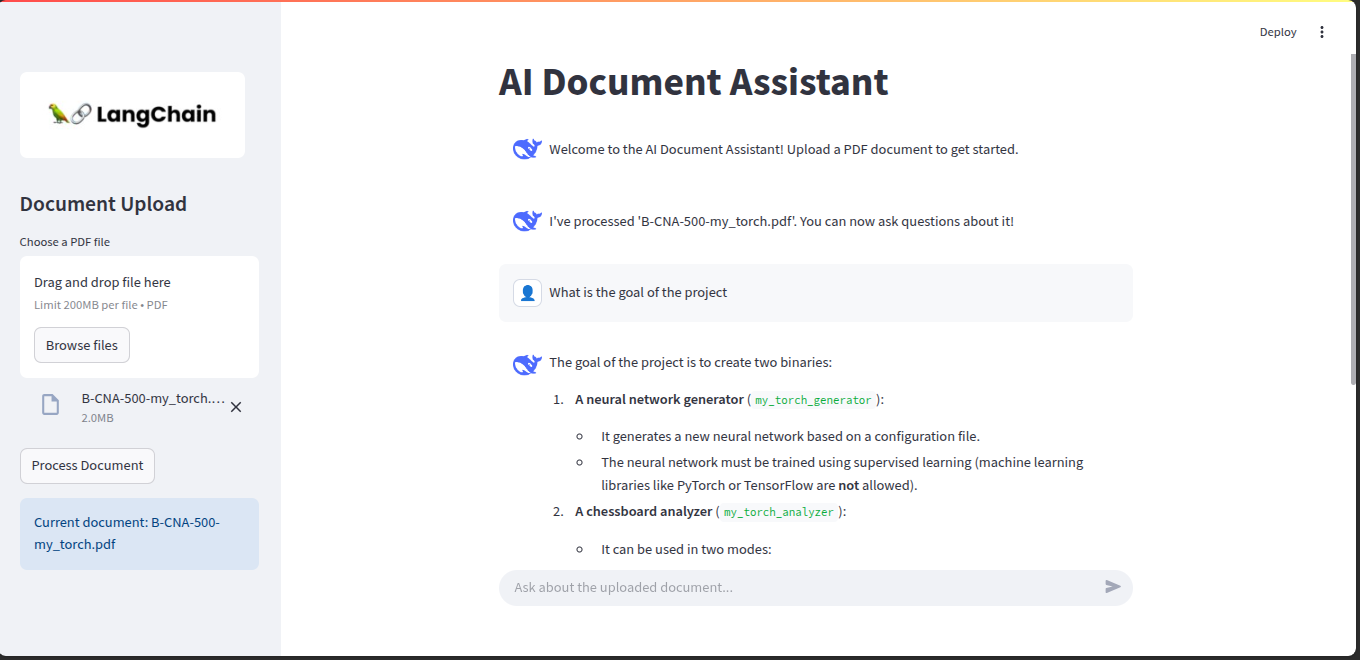
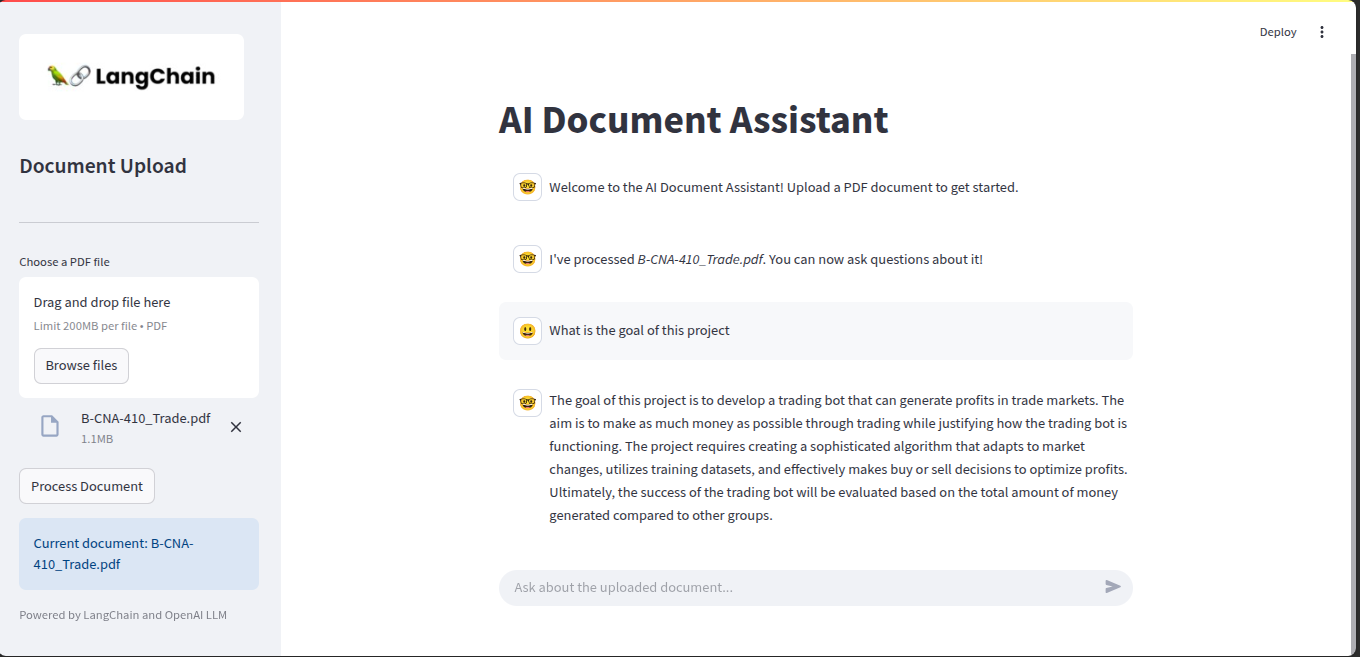
fix: update README and streamlit app to use OpenAI API, remove DeepSeek references, and enhance UI elements

diff --git a/streamlit_app.py b/streamlit_app.py
@@ -3,17 +3,16 @@ import time
 import os
 from core import (
     load_environment_variables,
-    authenticate_huggingface,
     load_and_split_documents,
     create_vector_store,
-    get_deepseek_llm,
+    get_openai_llm,
     create_qa_chain,
     ask_question
 )
 
 st.set_page_config(
     page_title="AI Document Assistant",
-    page_icon="assets/image.png",
+    page_icon="📚",
     layout="centered"
 )
 
@@ -45,12 +44,12 @@ with st.sidebar:
         if st.button("Process Document"):
             with st.spinner("Processing document..."):
                 try:
-                    hf_token, deepseek_api_key, deepseek_api_base = load_environment_variables()
-                    authenticate_huggingface(hf_token)
+                    openai_api_key, openai_api_base, model_name = load_environment_variables()
+                    embedding_model = "text-embedding-3-small"
                     
                     chunks = load_and_split_documents("temp_upload.pdf")
-                    vectorstore = create_vector_store(chunks)
-                    llm = get_deepseek_llm(deepseek_api_key, deepseek_api_base)
+                    vectorstore = create_vector_store(chunks, embedding_model)
+                    llm = get_openai_llm(model_name, openai_api_key, openai_api_base)
                     qa_chain = create_qa_chain(llm, vectorstore)
                     
                     st.session_state.uploaded_file = uploaded_file.name
@@ -61,7 +60,7 @@ with st.sidebar:
                     
                     st.session_state.messages.append({
                         "role": "assistant",
-                        "content": f"I've processed '{uploaded_file.name}'. You can now ask questions about it!"
+                        "content": f"I've processed *{uploaded_file.name}*. You can now ask questions about it!"
                     })
                 except Exception as e:
                     st.error(f"Error processing document: {str(e)}")
@@ -69,12 +68,12 @@ with st.sidebar:
     if st.session_state.uploaded_file:
         st.info(f"Current document: {st.session_state.uploaded_file}")
     
-    st.caption("Powered by LangChain and DeepSeek LLM")
+    st.caption("Powered by LangChain and OpenAI LLM")
 
 st.title("AI Document Assistant")
 
 for message in st.session_state.messages:
-    avatar = "assets/image.png" if message["role"] == "assistant" else "👤"
+    avatar = "🤓" if message["role"] == "assistant" else "😃"
     with st.chat_message(message["role"], avatar=avatar):
         st.write(message["content"])
 
@@ -95,10 +94,10 @@ def pipeline_stream(prompt):
 if prompt := st.chat_input("Ask about the uploaded document..."):
     st.session_state.messages.append({"role": "user", "content": prompt})
     
-    with st.chat_message("user", avatar="👤"):
+    with st.chat_message("user", avatar="😃"):
         st.write(prompt)
 
-    with st.chat_message("assistant", avatar="assets/image.png"):
+    with st.chat_message("assistant", avatar="🤓"):
         with st.spinner("Searching knowledge base..."):
             collected_response = [""]
 

diff --git a/README.md b/README.md
@@ -76,7 +76,7 @@ The project consists of three main components:
 
 - Python 3.13+
 - HuggingFace account and API token
-- DeepSeek API key (or compatible LLM API)
+- OpenAI API key (or compatible LLM API)
 
 > [!NOTE]
 > If you need help setting up Python, VS Code, and the uv package manager, please refer to our [Setup Guide](SETUP.md) for detailed instructions.
@@ -130,9 +130,8 @@ streamlit run streamlit_app.py
 ## Technical Details
 
 - **Document Chunking**: Uses RecursiveCharacterTextSplitter with chunk size of 10,000 characters
-- **Embeddings**: Generated using Hugging Face's "all-MiniLM-L6-v2" model
 - **Vector Database**: FAISS for efficient similarity search
-- **LLM**: DeepSeek Chat model (can be configured to use other LLMs)
+- **LLM**: OpenAI Chat model (can be configured to use other LLMs)
 - **Framework**: Built on LangChain for component orchestration
 
 ## Workshop Content
